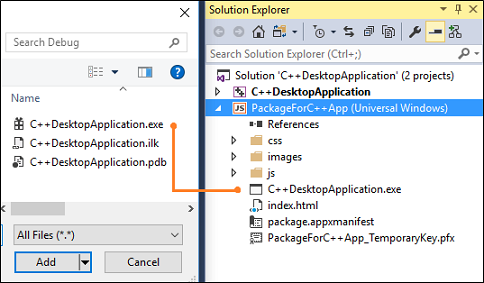
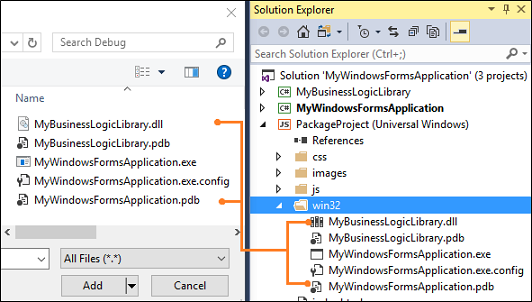
Merged PR 2505: Merge normesta-master-vs-fixes2 to master
Some fixes based on customer feedback.

diff --git a/windows-apps-src/porting/desktop-to-uwp-packaging-dot-net.md b/windows-apps-src/porting/desktop-to-uwp-packaging-dot-net.md
@@ -39,20 +39,28 @@ If you plan to publish your app to the [Windows Store](https://www.microsoft.com
 
 Add the binaries directly to the packaging project.
 
-1. In **Solution Explorer**, create a subfolder and name it whatever you want (For example: **win32**).
+1. In **Solution Explorer**, expand the packaging project folder, create a subfolder, and name it whatever you want (For example: **win32**).
 
 2. Right-click the subfolder, and then choose **Add Existing Item**.
 
-3. In the **Add Existing Item** dialog box, locate and then add the relevant binary executable or dll files from your desktop application project.
+3. In the **Add Existing Item** dialog box, locate and then add the files from your desktop application's output folder. This includes not just the executable files, but any dlls or .config files that are located in that folder.
 
-   ![Reference executable file](images/desktop-to-uwp/exe-reference.png)
+   ![Reference executable file](images/desktop-to-uwp/cpp-exe-reference.png)
 
-   Every time you make a change to your desktop application project, you'll have to copy a new version of your binaries to the packaging project. You can automate this by adding a post-build event to the project file of the packaging project. Here's an example.
+   Every time you make a change to your desktop application project, you'll have to copy a new version of those files to the packaging project. You can automate this by adding a post-build event to the project file of the packaging project. Here's an example.
 
    ```XML
    <Target Name="PostBuildEvent">
      <Copy SourceFiles="..\MyWindowsFormsApplication\bin\Debug\MyWindowsFormsApplication.exe"
-       DestinationFolder="." />
+       DestinationFolder="win32" />
+     <Copy SourceFiles="..\MyWindowsFormsApplication\bin\Debug\MyWindowsFormsApplication.exe.config"
+       DestinationFolder="win32" />
+     <Copy SourceFiles="..\MyWindowsFormsApplication\bin\Debug\MyWindowsFormsApplication.pdb"
+       DestinationFolder="win32" />
+     <Copy SourceFiles="..\MyWindowsFormsApplication\bin\Debug\MyBusinessLogicLibrary.dll"
+       DestinationFolder="win32" />
+     <Copy SourceFiles="..\MyWindowsFormsApplication\bin\Debug\MyBusinessLogicLibrary.pdb"
+       DestinationFolder="win32" />
    </Target>
    ```
 
@@ -67,23 +75,36 @@ The packaging project contains a file that describes the settings of your packag
 2. Add this namespace to the top of the file, and add the namespace prefix to the list of ``IgnorableNamespaces``.
 
    ```XML
-   <Package xmlns:rescap="http://schemas.microsoft.com/appx/manifest/foundation/windows10/restrictedcapabilities"
-            IgnorableNamespaces="rescap">
-
+   xmlns:rescap="http://schemas.microsoft.com/appx/manifest/foundation/windows10/restrictedcapabilities"
    ```
-
-3. Set the ``Name`` attribute of the ``TargetDeviceFamily`` element to **Windows.Desktop**.
+   When you're done, your namespace declarations will look something like this:
 
    ```XML
-   <TargetDeviceFamily Name="Windows.Desktop" />
+   <Package
+     xmlns="http://schemas.microsoft.com/appx/manifest/foundation/windows10"
+     xmlns:mp="http://schemas.microsoft.com/appx/2014/phone/manifest"
+     xmlns:uap="http://schemas.microsoft.com/appx/manifest/uap/windows10"
+     xmlns:rescap="http://schemas.microsoft.com/appx/manifest/foundation/windows10/restrictedcapabilities"
+     IgnorableNamespaces="uap mp rescap">
    ```
+
+3. Find the ``TargetDeviceFamily`` element, and set the ``Name`` attribute to **Windows.Desktop**, the ``MinVersion`` attribute to the minimum version of the packaging project, and the ``MaxVersionTested`` to the target version of the packaging project.
+
+   ```XML
+   <TargetDeviceFamily Name="Windows.Desktop" MinVersion="10.0.10586.0" MaxVersionTested="10.0.15063.0" />
+   ```
+
+   You can find the minimum version and target version in the property pages of the packaging project.
+
+   ![Minimum and target version settings](images/desktop-to-uwp/min-target-version-settings.png)
+
 
 4. Remove the ``StartPage`` attribute from the ``Application`` element. Then, add the``Executable`` and ``EntryPoint`` attributes.
 
    The ``Application`` element will look like this.
 
    ```XML
-   <Application Id="App"  StartPage="index.html"  Executable=" " EntryPoint=" ">
+   <Application Id="App"  Executable=" " EntryPoint=" ">
    ```
 
 5. Set the ``Executable`` attribute to the name of your desktop application's executable file. Then, set the ``EntryPoint`` attribute to **Windows.FullTrustApplication**.
@@ -91,13 +112,21 @@ The packaging project contains a file that describes the settings of your packag
    The ``Application`` element will look similar to this.
 
    ```XML
-   <Application Id="App"  StartPage="index.html"  Executable="WindowsFormsApp.exe" EntryPoint="Windows.FullTrustApplication">
+   <Application Id="App"  Executable="win32\MyWindowsFormsApplication.exe" EntryPoint="Windows.FullTrustApplication">
    ```
+6. Add the ``runFullTrust`` capability to the ``Capabilities`` element.
+
+   ```XML
+     <rescap:Capability Name="runFullTrust"/>
+   ```
+   Blue squiggly marks might appear beneath this declaration, but you can safely ignore them.
 
    >[!IMPORTANT]
    If your creating a package for a C++ desktop application, you'll have to make a few extra changes to your manifest file so that you can deploy the Visual C++ runtimes along with your app. See [Using Visual C++ runtimes in a desktop bridge project](https://blogs.msdn.microsoft.com/vcblog/2016/07/07/using-visual-c-runtime-in-centennial-project/).
 
-6. If you want to test your package, see [Run, debug, and test a packaged desktop app (Desktop Bridge)](desktop-to-uwp-debug.md).
+7. Build the packaging project to ensure that no errors appear.
+
+8. If you want to test your package, see [Run, debug, and test a packaged desktop app (Desktop Bridge)](desktop-to-uwp-debug.md).
 
    Then, return to this guide, and see the next section to generate your package.
 

diff --git a/windows-apps-src/porting/desktop-to-uwp-debug.md b/windows-apps-src/porting/desktop-to-uwp-debug.md
@@ -20,7 +20,7 @@ Run your packaged app and see how it looks without having to sign it. Then, set 
 
 You can run your app to test it out locally without having to obtain a certificate and sign it.
 
-If you created your package by using a UWP project in Visual Studio, just press CTRL+F5 to start your app.
+If you created your package by using a UWP project in Visual Studio, just set the packaging project as the startup project, and then press CTRL+F5 to start your app.
 
 If you used the Desktop App Converter or you package your app manually, open a Windows PowerShell command prompt, and from the **PacakgeFiles** subfolder of your output folder, run this cmdlet:
 
